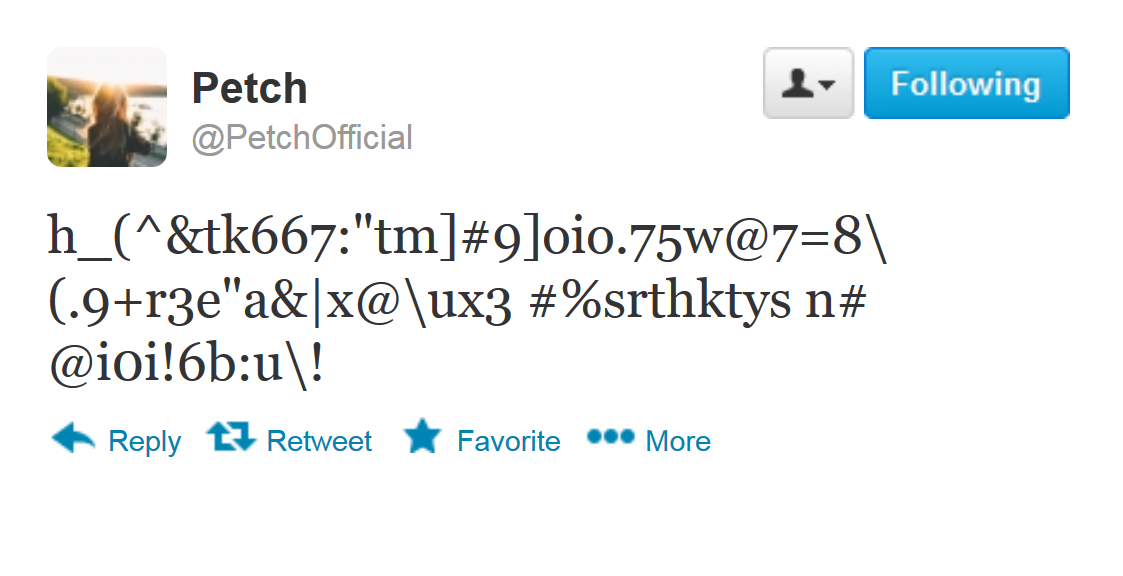
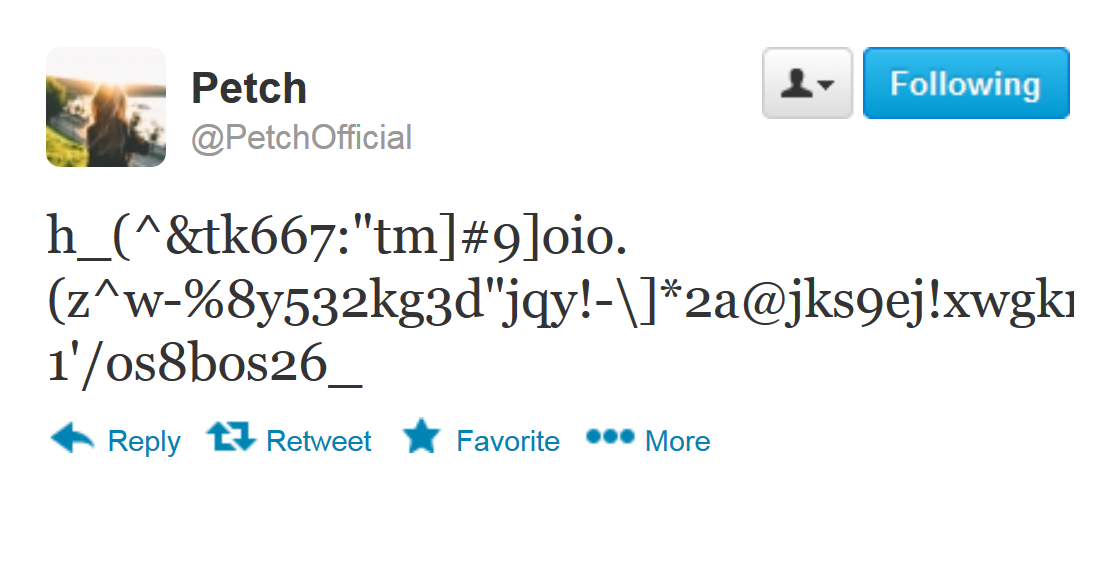
update challenge message

diff --git a/client/scripts/challenges/petch.js b/client/scripts/challenges/petch.js
@@ -53,7 +53,7 @@ const characterSet = ` !"#$%&'()*+,-./0123456789:;=?@[\\]^_abcdefghijklmnopqrstu
 
 const OTP = `;'z@qxkw]0i"'8]mn64'y.x2*@xj87zy]k:xf"!p,!e(-xuar%!19#[t,@ &n r cido3j7( w_^$8^hyj1#d[rt.8_/4(1)]_c.l.75[r-mt]%8n$2[:y"7,:j:9)c_/"?l?u3pwbgt`;
 
-const petchMsg = `h_(^&tk667:"tm]#9]oio.75w@7=8\\(.9+r3e"a&|x@\\ux3 #%srthktys n# @i0i!6b:u\\!`;
+const petchMsg = `h_(^&tk667:"tm]#9]oio.(z^w-%8y532kg3d"jqy!-\\]*2a@jks9ej!xwgknb) 1'/os8bos26_`;
 
 function XOR (key, msg) {
   // Good luck!
@@ -63,8 +63,11 @@ function XOR (key, msg) {
 
 /// solutions:
 const characterSet = ` !"#$%&'()*+,-./0123456789:;=?@[\\]^_abcdefghijklmnopqrstuvwxyz|~`;
+
 const OTP = `;'z@qxkw]0i"'8]mn64'y.x2*@xj87zy]k:xf"!p,!e(-xuar%!19#[t,@ &n r cido3j7( w_^$8^hyj1#d[rt.8_/4(1)]_c.l.75[r-mt]%8n$2[:y"7,:j:9)c_/"?l?u3pwbgt`;
-const petchMsg = `h_(^&tk667:"tm]#9]oio.75w@7=8\\(.9+r3e"a&|x@\\ux3 #%srthktys n# @i0i!6b:u\\!`;
+
+const petchMsg = `h_(^&tk667:"tm]#9]oio.(z^w-%8y532kg3d"jqy!-\\]*2a@jks9ej!xwgknb) 1'/os8bos26_`;
+
 function XOR (key, msg) {
   let totalKey = key;
   while (msg.length > totalKey.length) {
